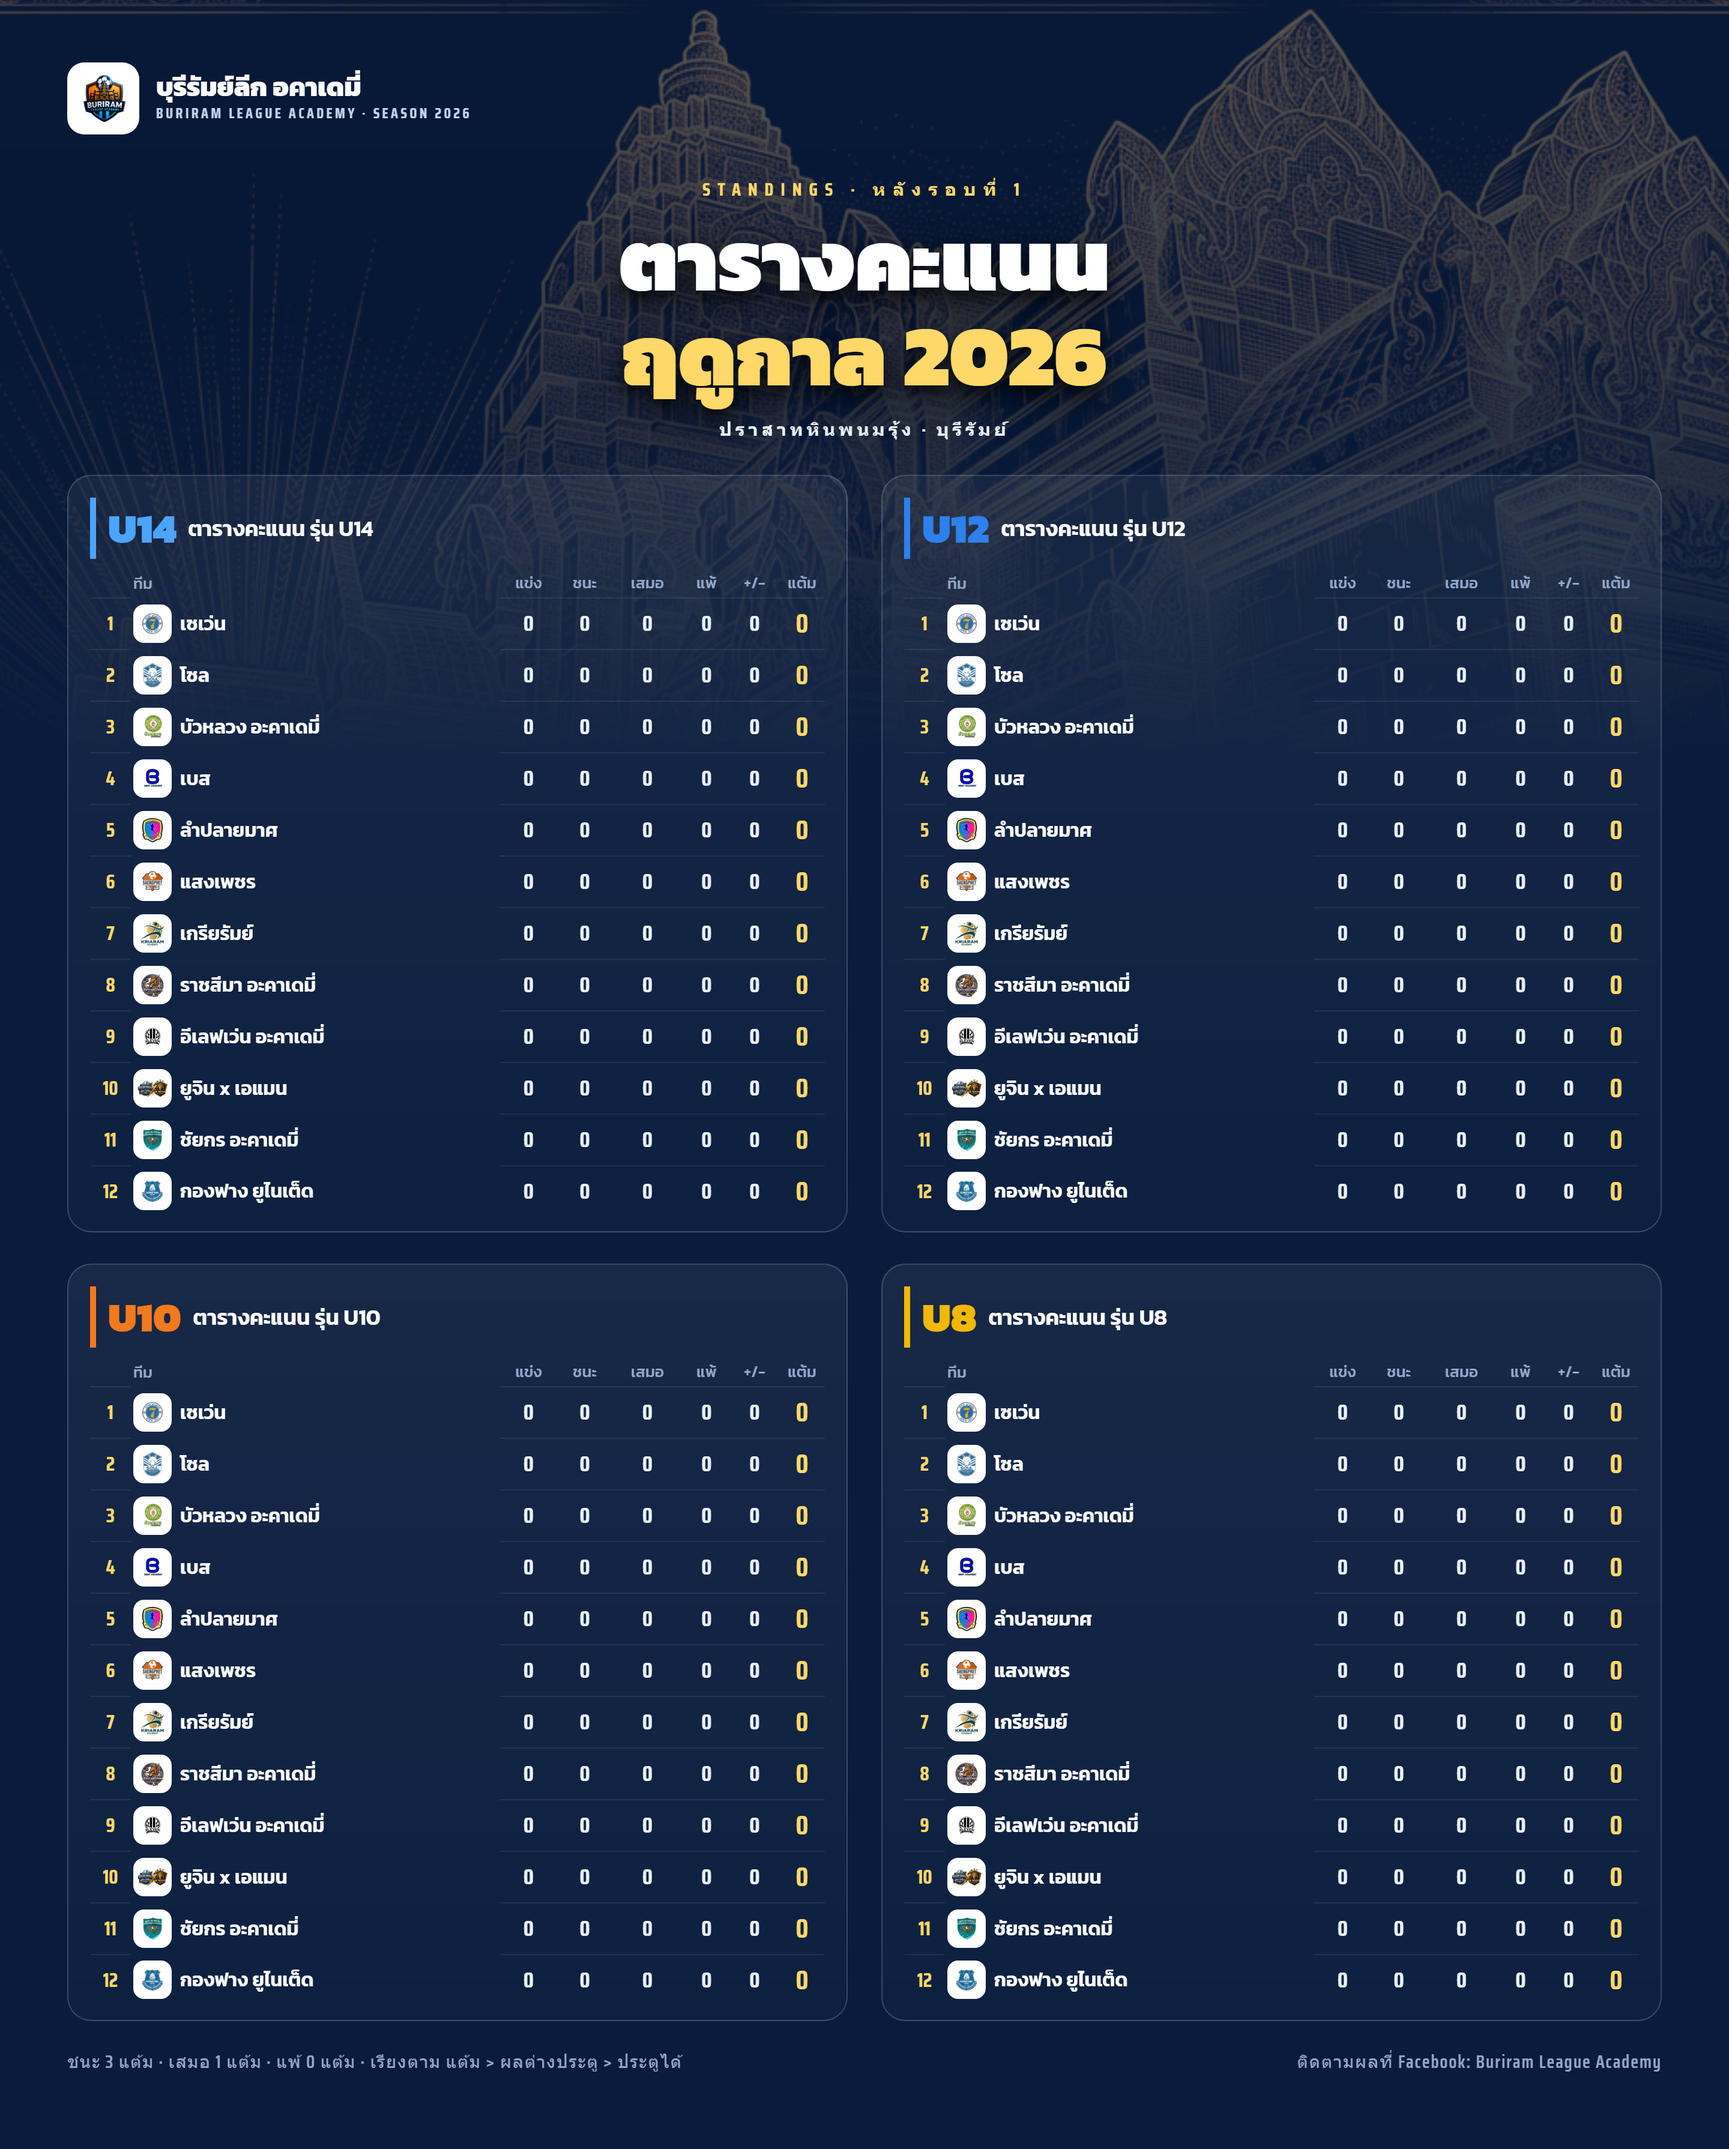
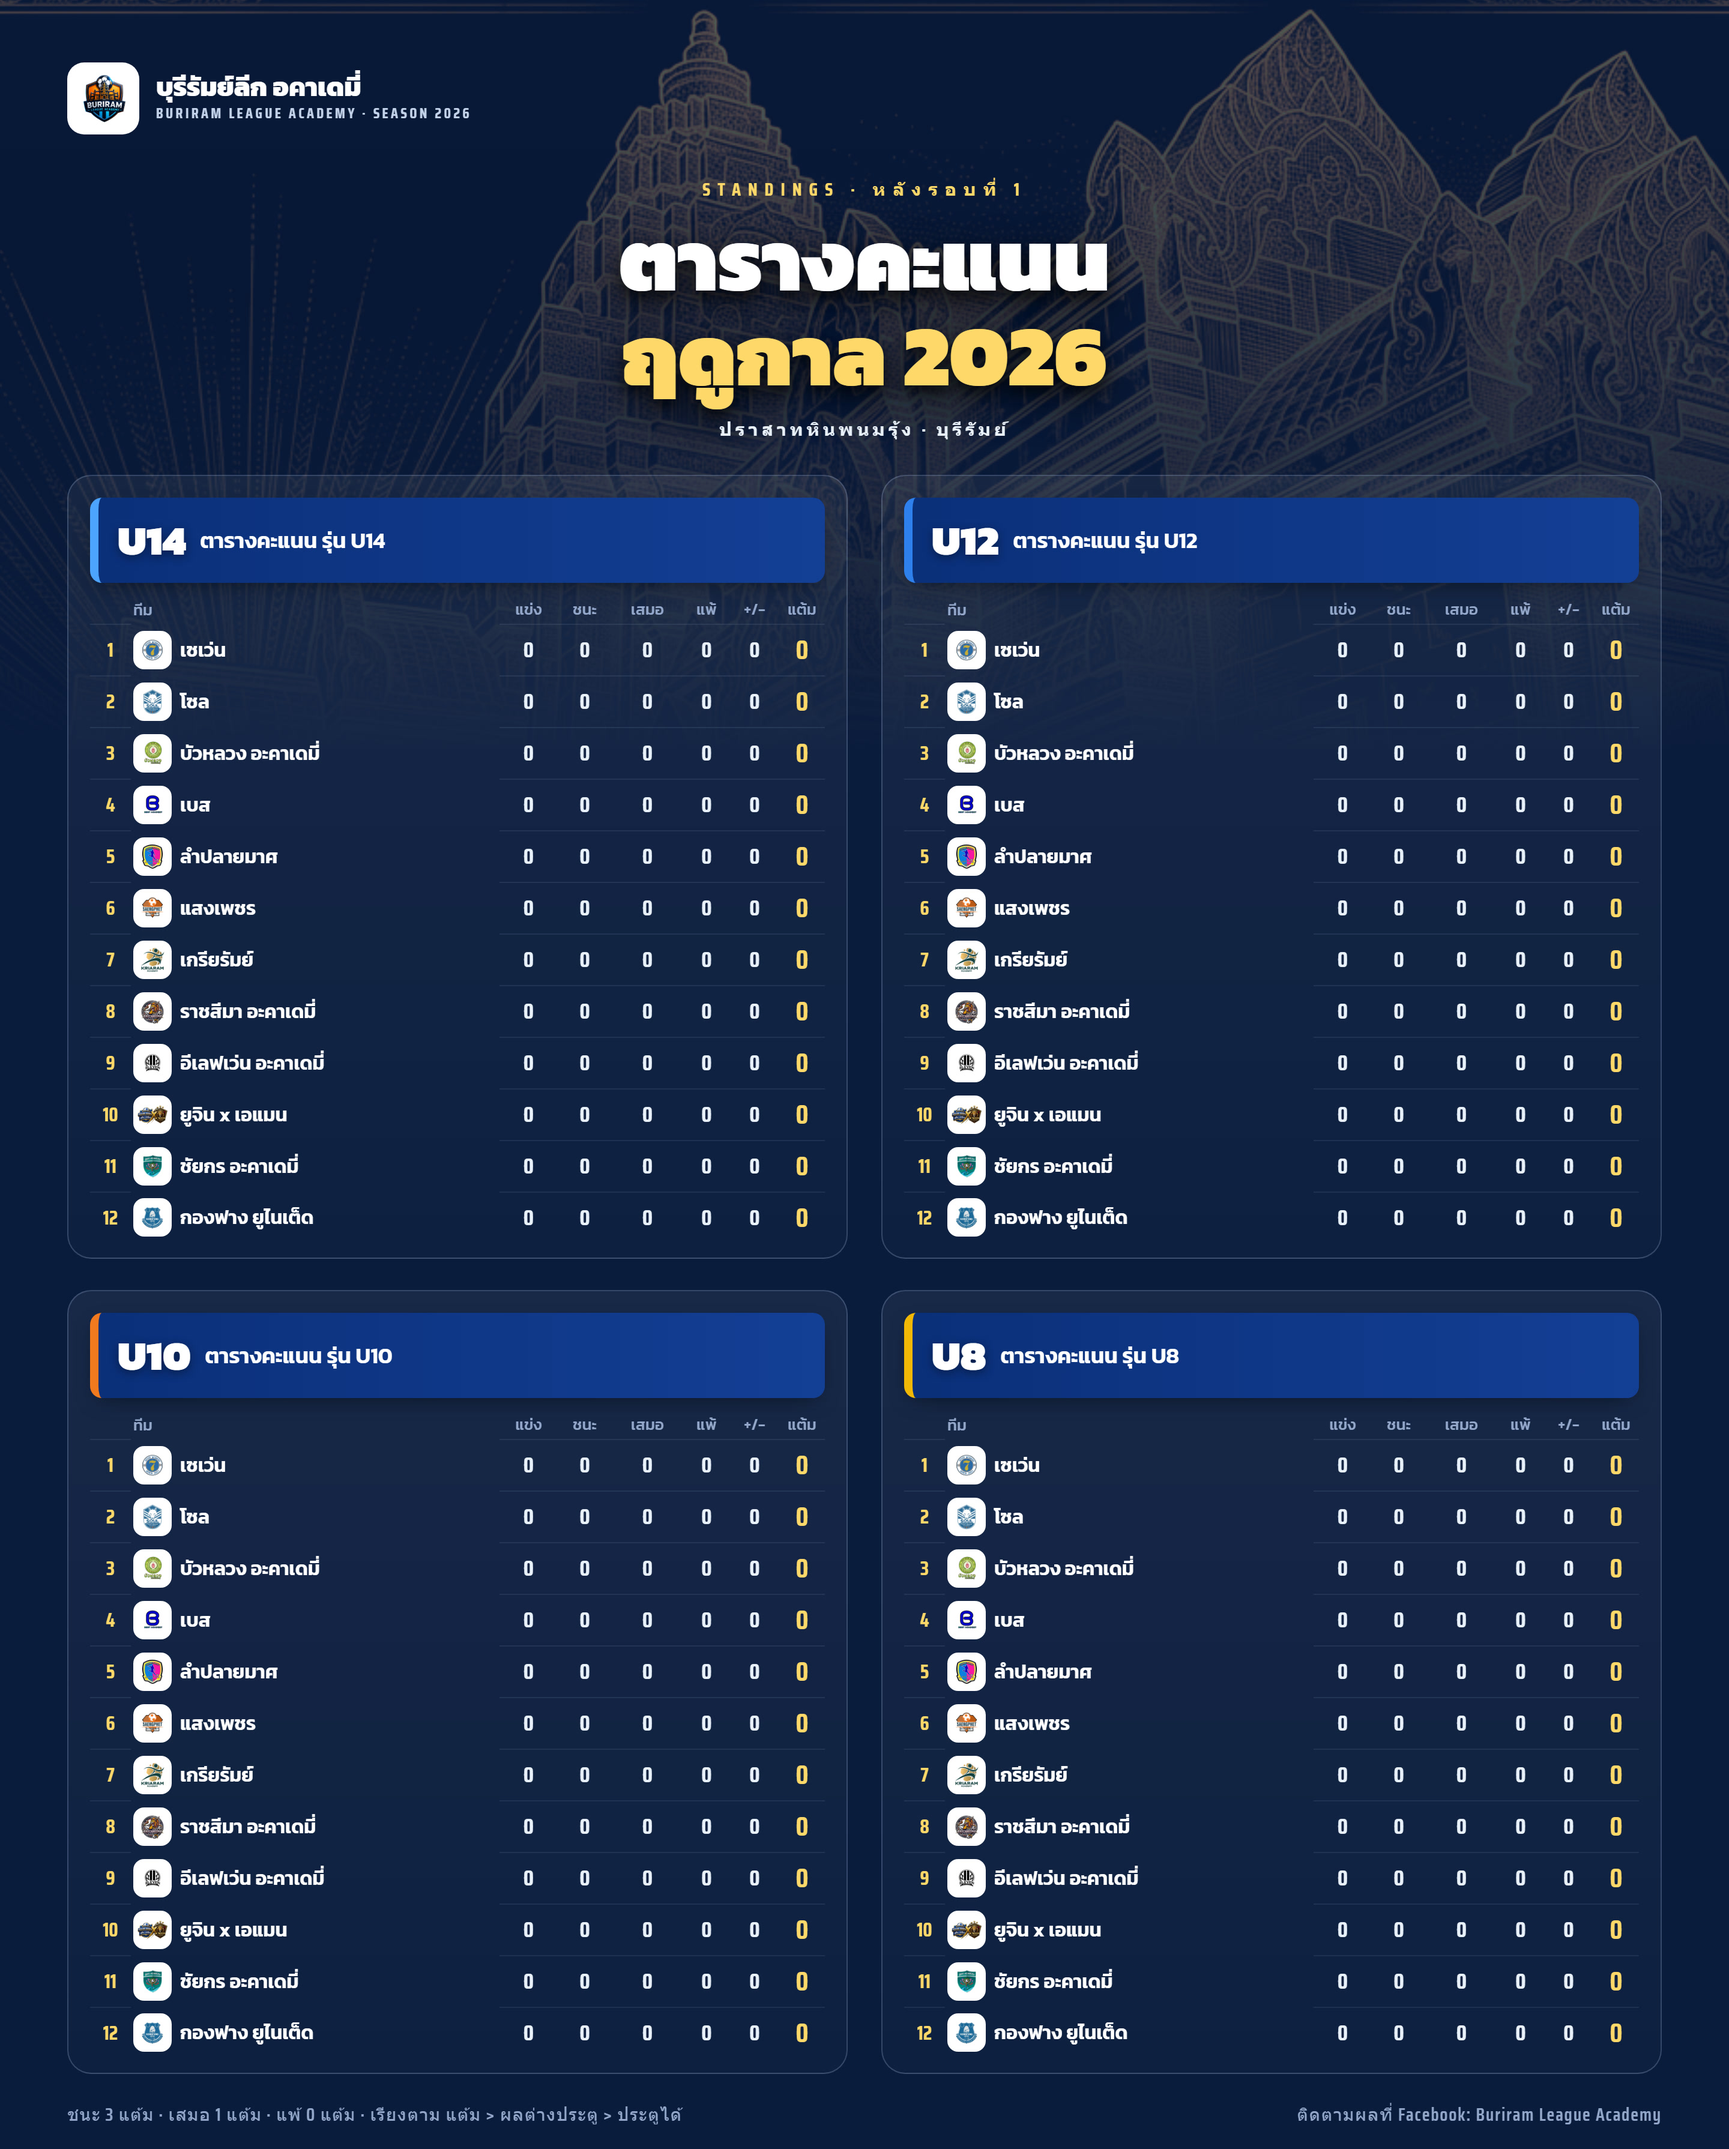
poster: deep-blue age header bars on standings poster

diff --git a/poster-template/make-standings.js b/poster-template/make-standings.js
@@ -82,8 +82,8 @@ html,body{margin:0;background:#0A1B3D}
 .sub{font-family:'Saira Condensed';font-weight:700;font-size:15px;letter-spacing:.2em;color:#EAF1FB;margin-top:10px}
 .grid{display:grid;grid-template-columns:1fr 1fr;gap:26px 28px}
 .tb{background:linear-gradient(180deg,rgba(255,255,255,.06),rgba(255,255,255,.02));border:1px solid rgba(180,205,245,.24);border-radius:20px;padding:18px 18px 12px}
-.th{display:flex;align-items:center;gap:10px;border-left:5px solid;padding-left:10px;margin-bottom:8px}
-.th b{font-family:Kanit;font-weight:900;font-size:34px}.th span{font-family:Kanit;font-weight:600;font-size:18px;color:#fff}
+.th{display:flex;align-items:center;gap:12px;border-left:7px solid;padding:10px 16px;margin-bottom:10px;border-radius:10px;background:linear-gradient(90deg,#0B2F7A,#143F96);box-shadow:0 6px 18px -8px rgba(0,0,0,.6)}
+.th b{font-family:Kanit;font-weight:900;font-size:34px;color:#fff !important;text-shadow:0 2px 8px rgba(0,0,0,.4)}.th span{font-family:Kanit;font-weight:600;font-size:18px;color:#fff}
 table{width:100%;border-collapse:collapse}
 td{font-family:'Saira Condensed';font-weight:700;font-size:18px;text-align:center;color:#EAF1FB;height:42px;border-bottom:1px solid rgba(180,205,245,.1);padding:0 2px}
 tr:last-child td{border-bottom:0}
